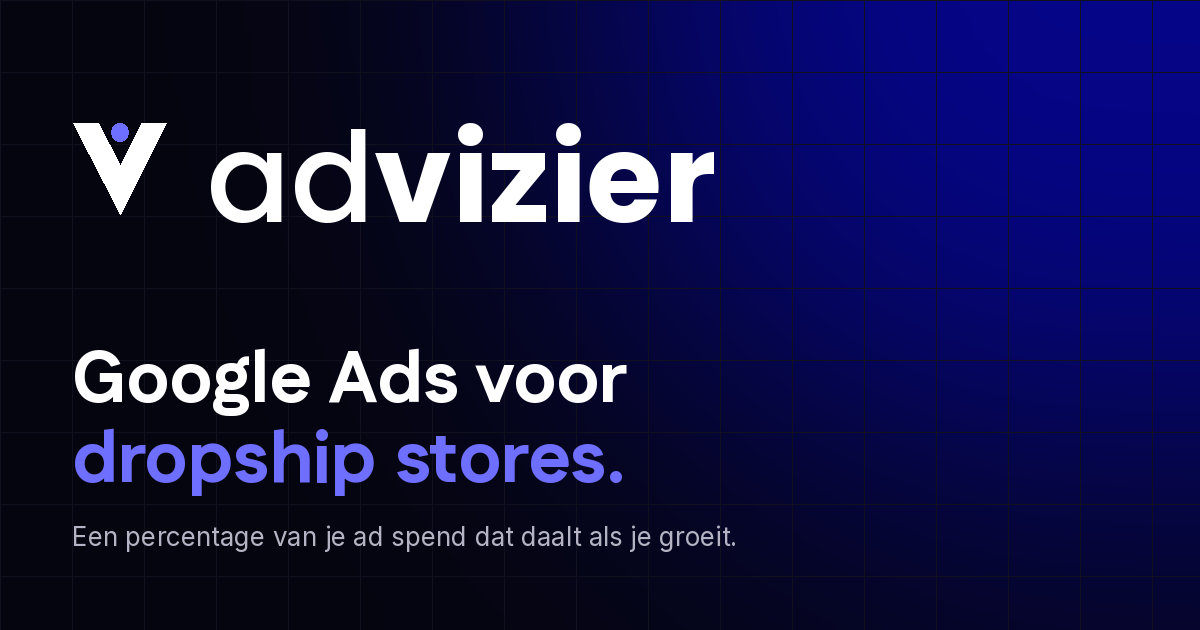
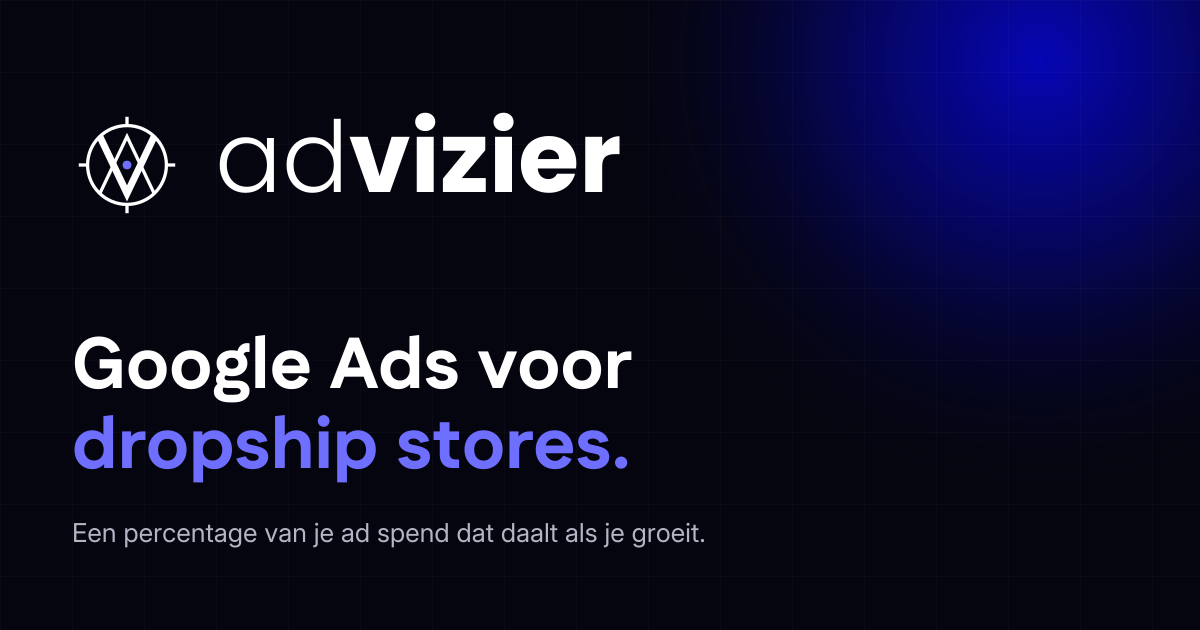
Add files via upload

diff --git a/src/components/Logo.tsx b/src/components/Logo.tsx
@@ -1,20 +1,20 @@
 type Tone = "dark" | "light";
 
-const tones: Record<Tone, { mark: string; text: string }> = {
-  dark: { mark: "#FFFFFF", text: "#FFFFFF" },
-  light: { mark: "#0A0A12", text: "#0A0A12" },
+const tones: Record<Tone, { line: string; text: string }> = {
+  dark: { line: "#FFFFFF", text: "#FFFFFF" },
+  light: { line: "#0A0A12", text: "#0A0A12" },
 };
 
 /** Brand accent for the dot — the same lilac as the highlighted words on dark sections. */
 const DOT = "#6E6EFF";
 
 /**
- * The mark: a solid V with the dot above it.
- * Geometry in a 100×100 box; `size` is the rendered height in px.
+ * The mark: the crosshair with the interlocking A and V, in the heavy weight.
+ * Geometry in a 600×600 box; `size` is the rendered box in px (the mark fills ~88% of it).
  */
 export function Emblem({
   tone = "dark",
-  size = 28,
+  size = 30,
   className = "",
   title,
 }: {
@@ -26,24 +26,40 @@ export function Emblem({
   const c = tones[tone];
   return (
     <svg
-      viewBox="0 0 100 100"
+      viewBox="0 0 600 600"
       width={size}
       height={size}
+      fill="none"
       role={title ? "img" : undefined}
       aria-hidden={title ? undefined : true}
       className={className}
     >
       {title ? <title>{title}</title> : null}
-      <path d="M2 4H28L50 47.1L72 4H98L50 98Z" fill={c.mark} />
-      <circle cx="50" cy="13" r="9" fill={DOT} />
+      <circle cx="300" cy="300" r="215" stroke={c.line} strokeWidth="18" />
+      <path d="M300 37V80M300 520V563M37 300H80M520 300H563" stroke={c.line} strokeWidth="18" />
+      <path
+        d="M152 145L300 455L448 145"
+        stroke={c.line}
+        strokeWidth="38"
+        strokeLinejoin="miter"
+        strokeMiterlimit="10"
+      />
+      <path
+        d="M152 455L300 145L448 455"
+        stroke={c.line}
+        strokeWidth="18"
+        strokeLinejoin="miter"
+        strokeMiterlimit="10"
+      />
+      <circle cx="300" cy="300" r="24" fill={DOT} />
     </svg>
   );
 }
 
-/** Mark + wordmark: "ad" medium, "vizier" bold, in Poppins. */
+/** Mark + wordmark: "ad" in Poppins Light, "vizier" in Poppins Bold. */
 export function Logo({
   tone = "dark",
-  size = 26,
+  size = 30,
   className = "",
 }: {
   tone?: Tone;
@@ -51,15 +67,16 @@ export function Logo({
   className?: string;
 }) {
   const c = tones[tone];
-  const fontSize = Math.round(size * 1.2);
+  const fontSize = Math.round(size * 0.9);
   return (
-    <span className={`inline-flex items-center ${className}`} style={{ gap: Math.round(size * 0.4) }}>
+    <span className={`inline-flex items-center ${className}`} style={{ gap: Math.round(size * 0.3) }}>
       <Emblem tone={tone} size={size} />
       <span
         className="font-wordmark tracking-[-0.02em]"
-        style={{ color: c.text, fontSize, lineHeight: 1 }}
+        // Poppins' line box sits 0.077em above its x-height centre; nudge so the x-height centres on the mark.
+        style={{ color: c.text, fontSize, lineHeight: 1, transform: "translateY(0.077em)" }}
       >
-        <span className="font-medium">ad</span>
+        <span className="font-light">ad</span>
         <span className="font-bold">vizier</span>
       </span>
     </span>

diff --git a/src/components/Nav.tsx b/src/components/Nav.tsx
@@ -9,7 +9,7 @@ export function Nav() {
     <header className="sticky top-0 z-40 border-b border-line-dark bg-ground/80 backdrop-blur-md">
       <div className="mx-auto flex h-[72px] max-w-[1248px] items-center justify-between gap-6 px-6">
         <Link href="/" aria-label="Advizier, naar boven" className="shrink-0">
-          <Logo tone="dark" size={24} />
+          <Logo tone="dark" size={30} />
         </Link>
         <nav aria-label="Hoofdmenu" className="hidden items-center gap-9 text-[15px] font-medium lg:flex">
           {site.nav.map((item) => (

diff --git a/src/components/Footer.tsx b/src/components/Footer.tsx
@@ -12,7 +12,7 @@ export function Footer() {
     <footer className="border-t border-line-dark bg-ground text-white">
       <div className="mx-auto flex max-w-[1248px] flex-col gap-6 px-6 py-10 md:flex-row md:items-center md:justify-between">
         <Link href="/" aria-label="Advizier">
-          <Logo tone="dark" size={20} />
+          <Logo tone="dark" size={24} />
         </Link>
         <div className="text-[13px] text-muted">
           © {year} {legal}

diff --git a/src/app/layout.tsx b/src/app/layout.tsx
@@ -22,7 +22,7 @@ const inter = localFont({
 
 const poppins = localFont({
   src: [
-    { path: "./fonts/Poppins-Medium.woff2", weight: "500", style: "normal" },
+    { path: "./fonts/Poppins-Light.woff2", weight: "300", style: "normal" },
     { path: "./fonts/Poppins-Bold.woff2", weight: "700", style: "normal" },
   ],
   variable: "--font-poppins",
